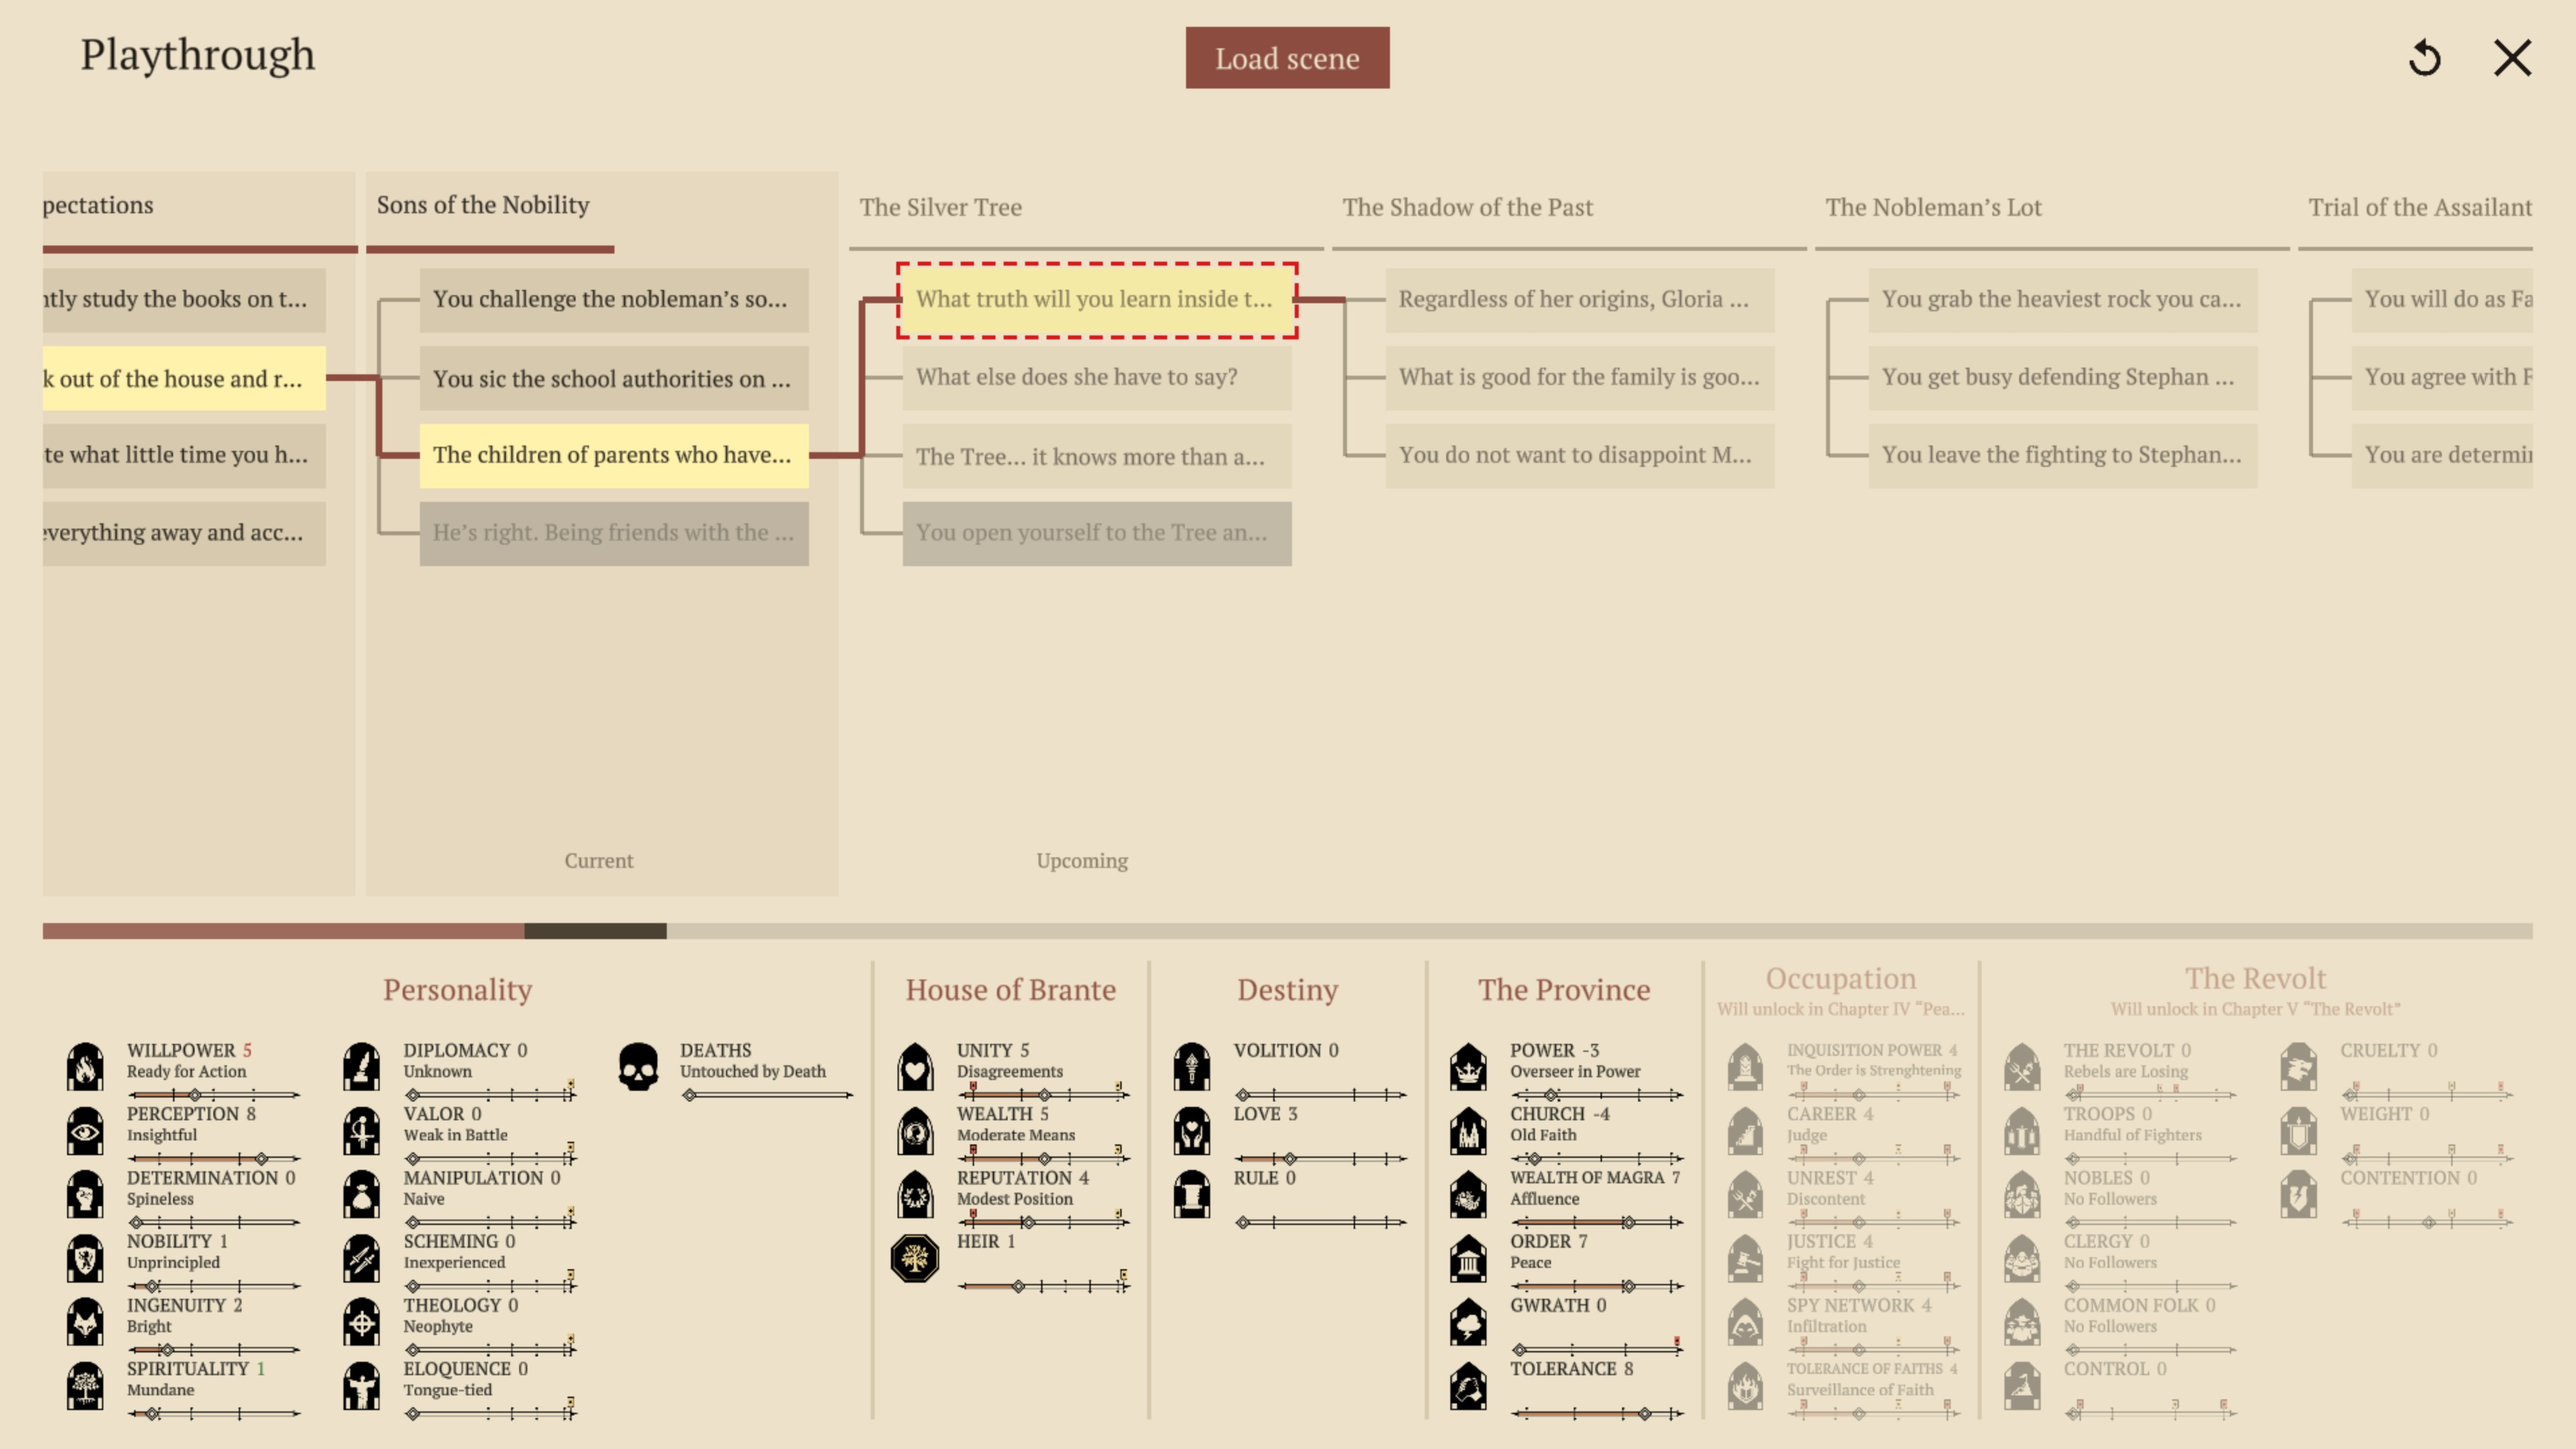
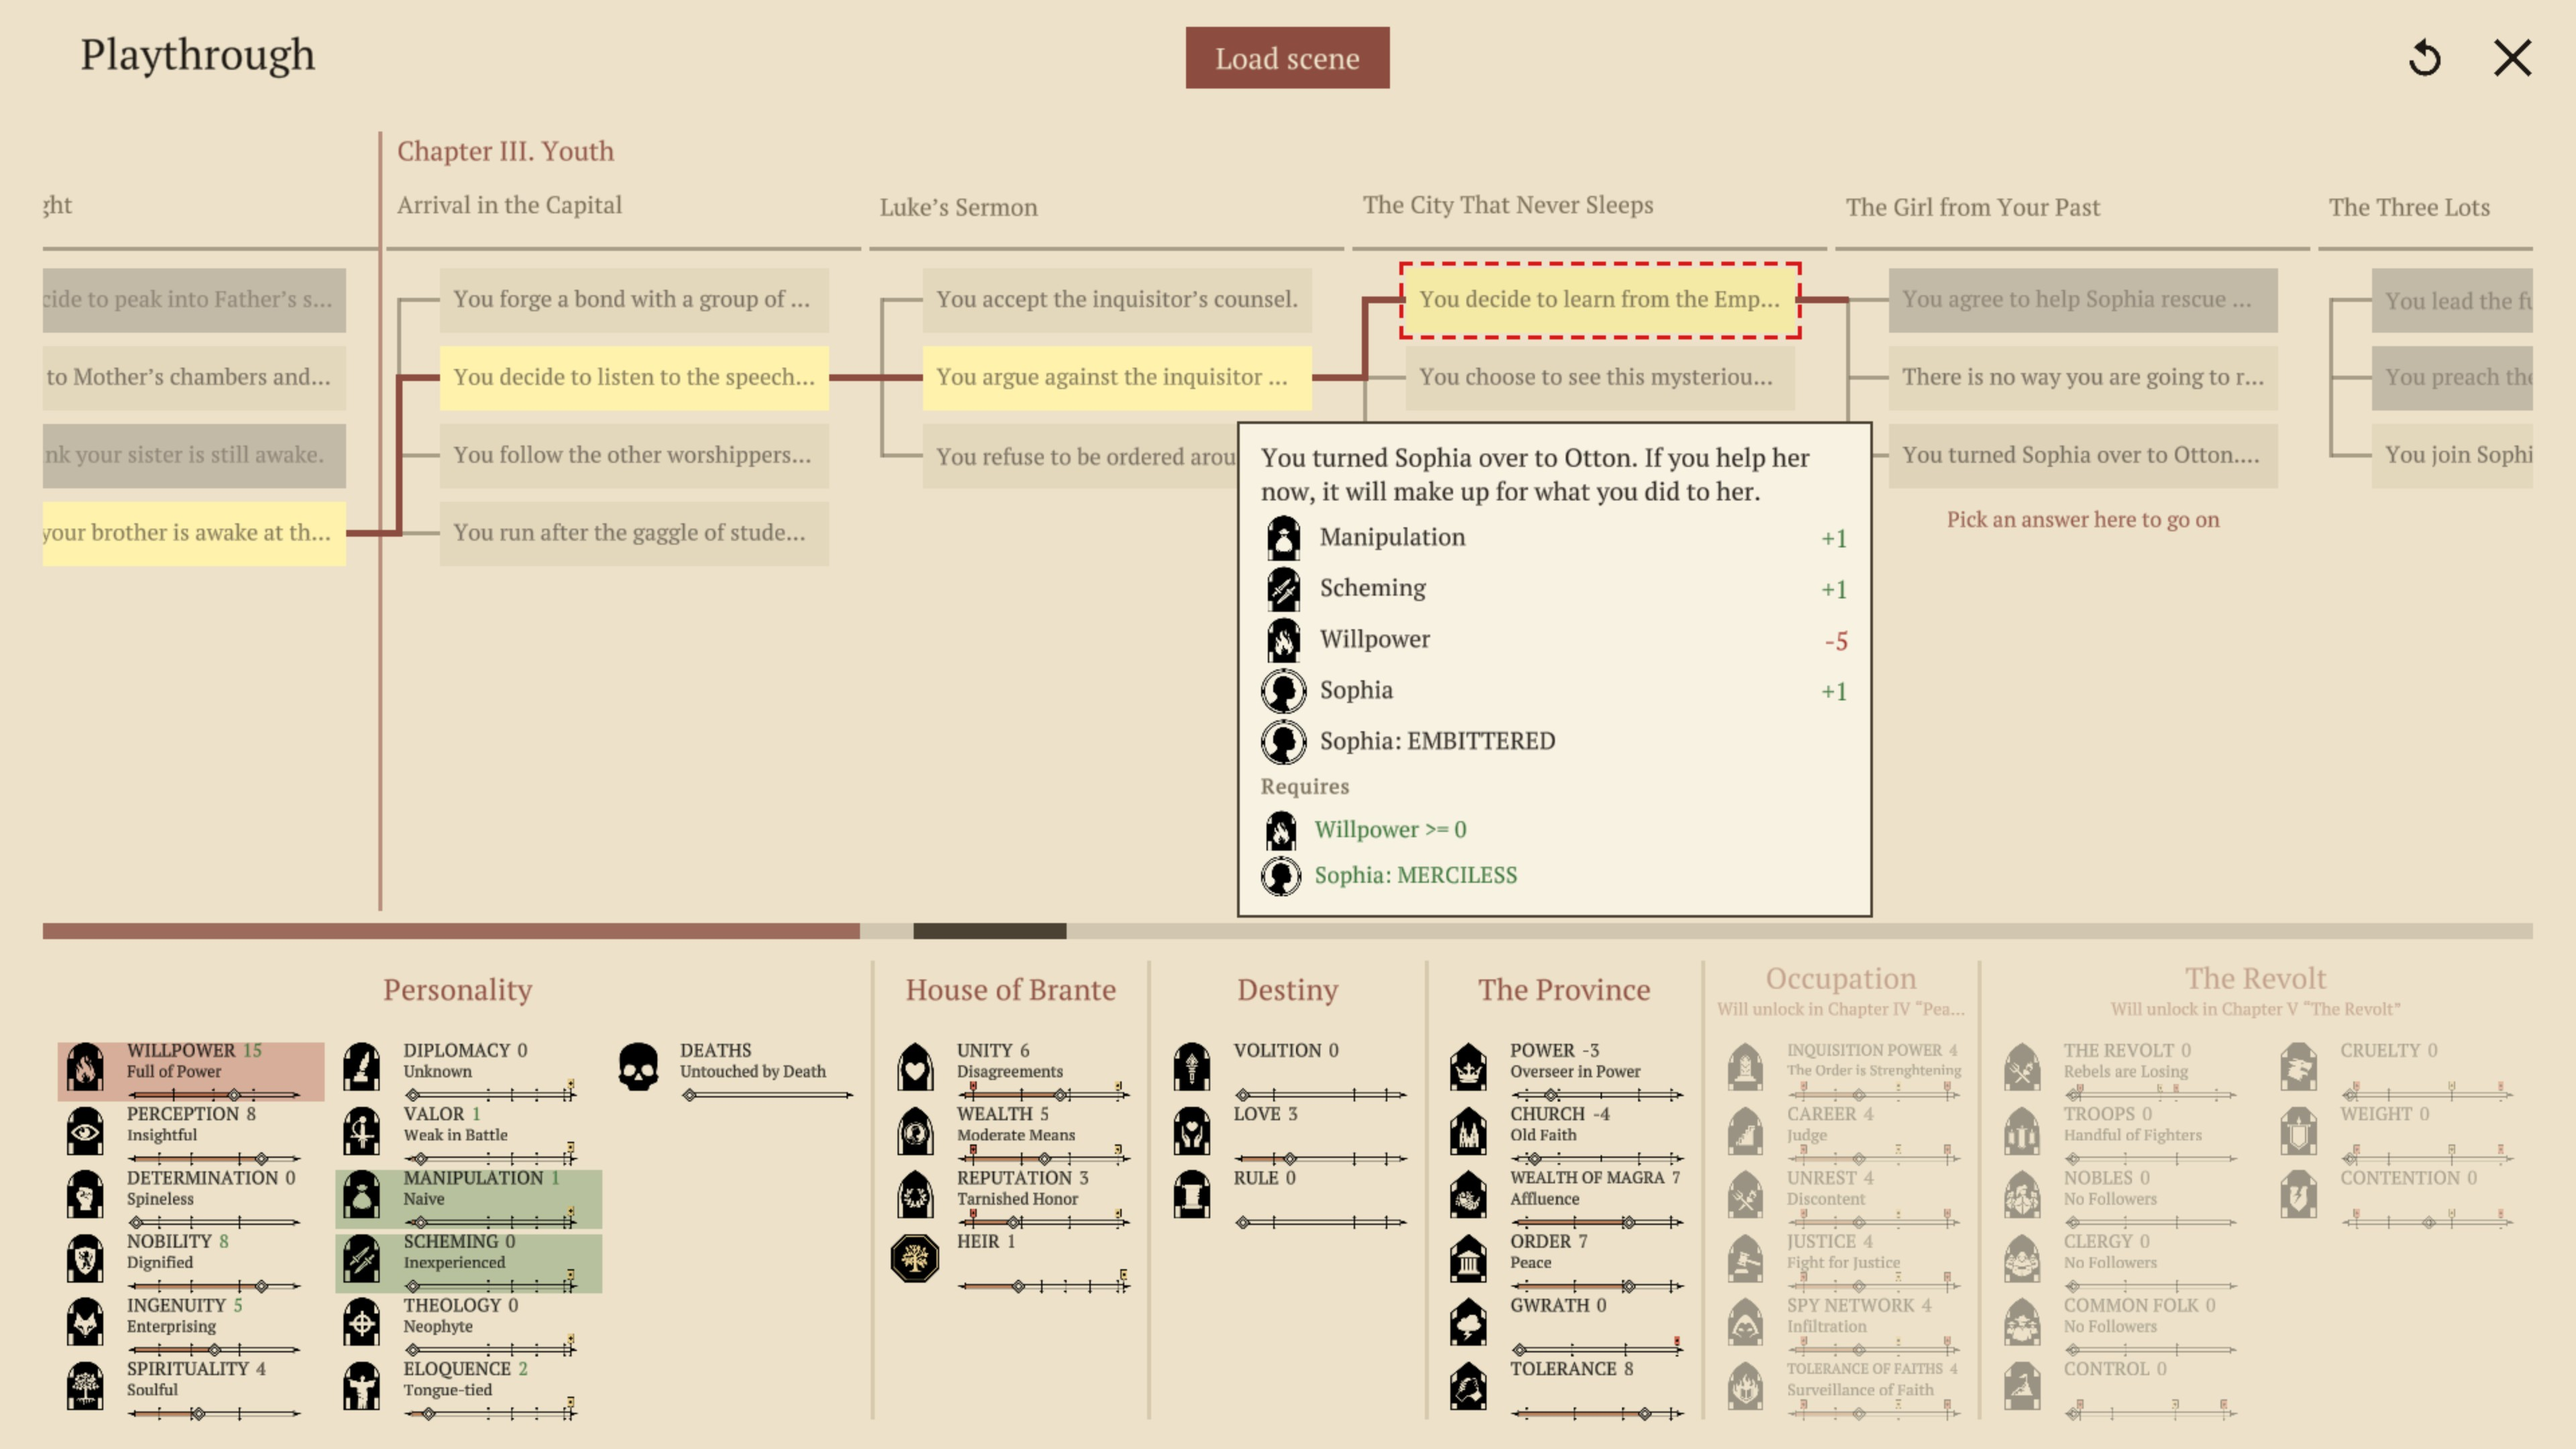
README: new screenshots of the save table, load dialog and tree view
Screenshot_2a/2b side by side: the list of saves, and the same list
after clicking a save (row marked, "Load this save?" dialog).
Screenshot_3 shows the tree's pick note and the stat marks on hover.

diff --git a/README.md b/README.md
@@ -12,7 +12,12 @@ It also features a "tree view" visual of your playthrough so you can see your mi
 ## What it does
 
 - **Load any past scene (when you had to make a choice).** The mod records the exact game state at every scene, so you can go back to any choice you already reached: click the tree view tab at the top of the book (the medallion with linked boxes) and pick the choice. The save / load tab next to it (the medallion with a down and an up arrow) opens the list of saves.
-![The save / load screen.](Screenshot_2.jpg)
+<p>
+<img src="Screenshot_2a.jpg" width="49%" alt="The save / load screen: a table of saves (game autosaves and snapshots taken before each load), with the save type, date saved, chapter, age, year, season, turn, scene and choice of each, and a bin to delete it.">
+<img src="Screenshot_2b.jpg" width="49%" alt="The same screen after clicking a save: the clicked row stays bright with a red dashed outline while the rest is dimmed, and a box asks &quot;Load this save?&quot; showing the save's time and choice, with Load and Cancel buttons.">
+</p>
+<em>Left: the list of saves. Right: clicking a save marks its row and asks to load it.</em>
+
 
 - **A backup of your original save, and the game's saves keep working.** The first time you start the game with this version the mod copies your game save folder once to `Brante-Save-Load/Backups/<save>/` (with a `README.txt` saying how to put it back) and never touches that copy again. Your game saves then work normally: the game keeps its one rolling autosave in the same save folder, exactly as it would after loading an older save from its own menu, and a chapter restart after a death continues *your* timeline. A game from an old version that has no save ID gets one, named the way the game names a new game, the first time you load it through the mod.
 
@@ -34,7 +39,7 @@ It also features a "tree view" visual of your playthrough so you can see your mi
 
 ## Tree view
 
-![The tree view: scenes are shown as columns of available choices, the player's path is shown in red and yellow highlighted choices, a picked choice is shown by a red dashed outline and can be loaded using the "load scene" button at the top. Player stats are given at the bottom with stats not yet unlocked remaining greyed out.](Screenshot_3.jpg)
+![The tree view: scenes are shown as columns of available choices, the player's path is shown in red and yellow highlighted choices, a picked choice is shown by a red dashed outline and can be loaded using the "load scene" button at the top, and "Pick an answer here to go on" marks the next scene to pick in. Hovering a choice shows what it changes and requires; the stats it changes are marked in the stat rows at the bottom, green for a rise and red for a fall. Stats not yet unlocked remain greyed out.](Screenshot_3.jpg)
 
 Click the tree view tab on top of the book (the medallion with linked boxes) to see the whole story as a tree, from left to right.
 Scroll sideways with the mouse wheel.
